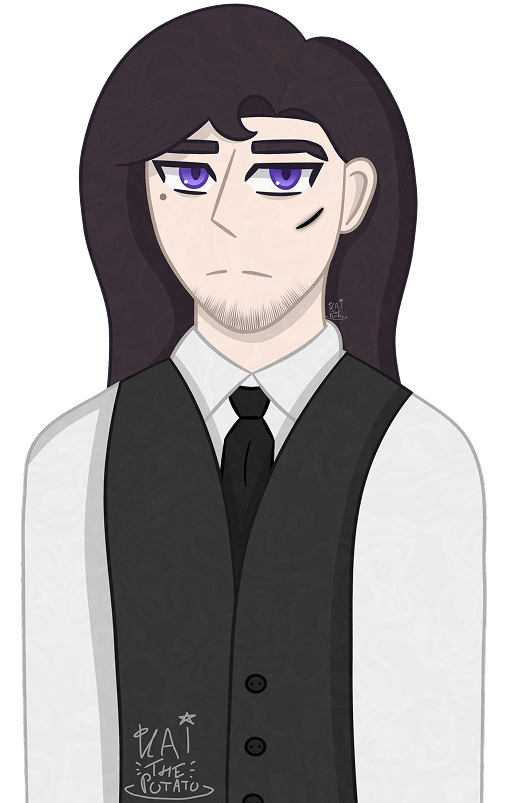
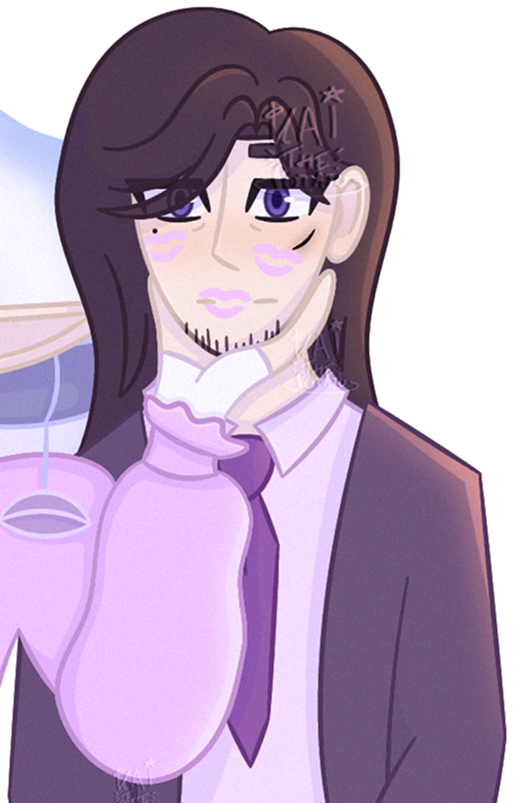
Added new Cario and Reve art

diff --git a/nationPages/altipianiPages/castPages/cario.html b/nationPages/altipianiPages/castPages/cario.html
@@ -33,7 +33,7 @@
 
         <div class="middleBlock">
 
-          <img src="../altipianiImg/castImg/carioImg/headshotCario.png" alt="castImage" class="sideCastImg">
+          <img src="../altipianiImg/castImg/carioImg/fullCario.png" alt="castImage" class="sideCastImg">
             
           <h2 class="secondTitle">Cario Vesco</h2>
 
@@ -48,7 +48,7 @@
 
                 <div class="slide active">
                   <p class="creditText">Headshot by: <a class="creditLink" href="https://www.instagram.com/ur_artsy_potato_kai/" target="_blank" rel="noopener noreferrer">@Ur_Artsy_Potato_Kai</a></p>
-                  <p class="creditText">Full body by: WIP</p>
+                  <p class="creditText">Full body by: <a class="creditLink" href="https://www.instagram.com/ur_artsy_potato_kai/" target="_blank" rel="noopener noreferrer">@Ur_Artsy_Potato_Kai</a></p>
                   <a href="#artDisplay" class="creditText">
                     <div id="small-chevron-arrow-down" class="chevron"></div>
                      See more 
@@ -113,7 +113,12 @@
 
                 <div class="artSlide active">
                     <div class="artItem">
-                        <img src="../altipianiImg/castImg/carioImg/headshotCario.png" alt="carioHeadshot">
+                        <img src="../altipianiImg/castImg/carioImg/headshotCarioOld.png" alt="oldCarioHeadshot">
+                        <a class="creditLink" href="https://www.instagram.com/ur_artsy_potato_kai/" target="_blank" rel="noopener noreferrer">@Ur_Artsy_Potato_Kai</a>
+                    </div>
+
+                    <div class="artItem">
+                        <img src="../altipianiImg/castImg/carioImg/carioAndRevePink.png" alt="carioAndReveInPink">
                         <a class="creditLink" href="https://www.instagram.com/ur_artsy_potato_kai/" target="_blank" rel="noopener noreferrer">@Ur_Artsy_Potato_Kai</a>
                     </div>
                 </div>

diff --git a/nationPages/altipianiPages/castPages/reve.html b/nationPages/altipianiPages/castPages/reve.html
@@ -114,7 +114,7 @@
 
           <div id="artDisplay" class="artSlider">
 
-            <!-- <button class="artBtn" onclick="prevSlide()"><div id="chevron-arrow-left" class="chevron"></div></button> -->
+            <button class="artBtn" onclick="prevSlide()"><div id="chevron-arrow-left" class="chevron"></div></button>
 
             <div class="artSlides">
 
@@ -140,9 +140,16 @@
                     </div>
                 </div>
 
+                <div class="artSlide">
+                    <div class="artItem">
+                        <img src="../altipianiImg/castImg/reveImg/carioAndRevePink.png" alt="carioAndReveInPink">
+                        <a class="creditLink" href="https://www.instagram.com/ur_artsy_potato_kai/" target="_blank" rel="noopener noreferrer">@Ur_Artsy_Potato_Kai</a>
+                    </div>
+                </div>
+
             </div>
 
-            <!-- <button class="artBtn" onclick="nextSlide()"><div id="chevron-arrow-right" class="chevron"></div></button> -->
+            <button class="artBtn" onclick="nextSlide()"><div id="chevron-arrow-right" class="chevron"></div></button>
 
           </div>
 
